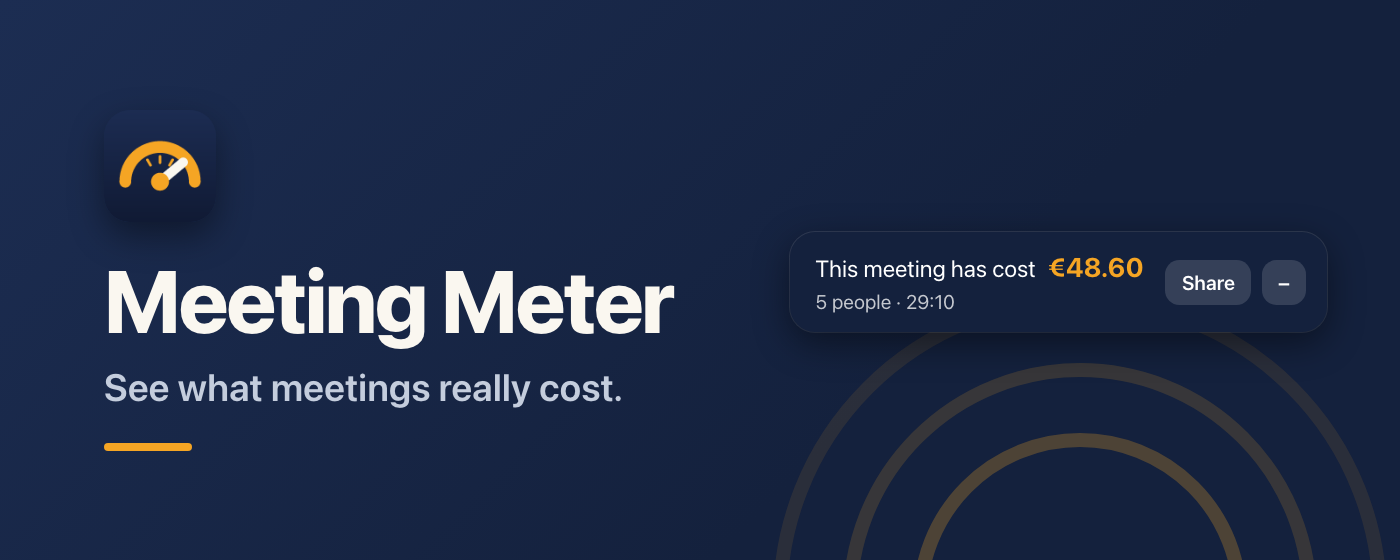
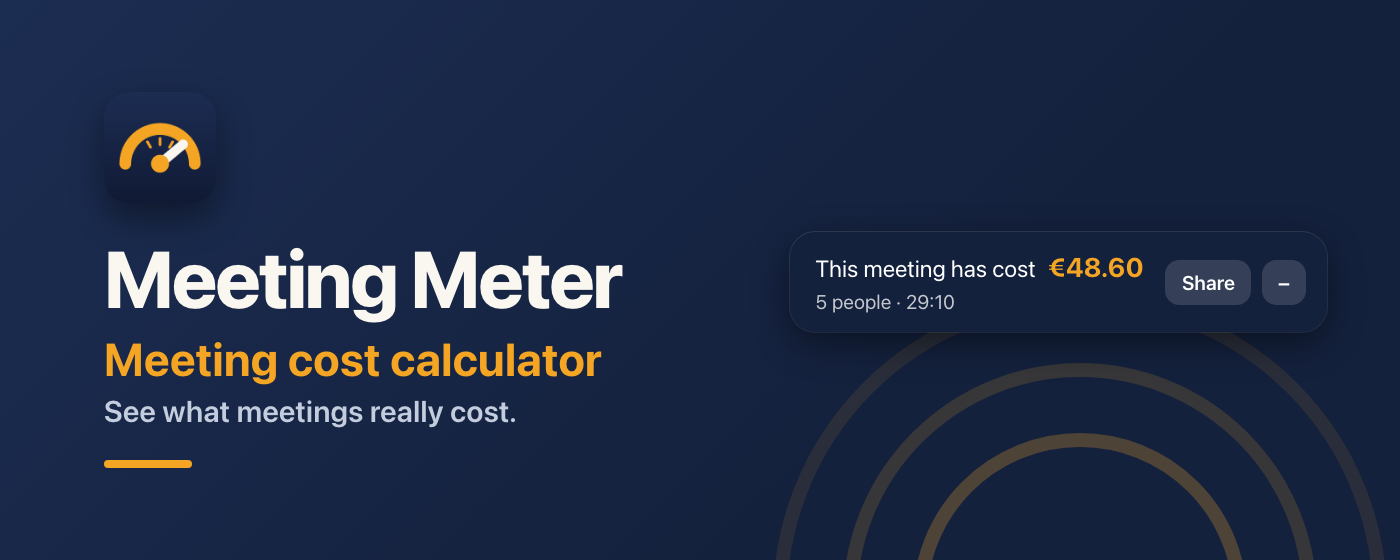
1.0.2: store name with search term, 5 store languages, trackable Share link, updated listing and promo tiles

Changed region(s): [[0.0614, 0.4554, 0.4914, 0.7589], [0.0614, 0.2125, 0.1536, 0.3339], [0.0614, 0.7893, 0.1536, 0.85]]

diff --git a/tests/run.js b/tests/run.js
@@ -105,10 +105,11 @@ eq("money en usd", C.formatMoney(5, "USD", false, "en-US"), "$5.00");
 eq("money gbp", C.formatMoney(1234.5, "GBP", false, "en"), "£1,234.50");
 eq("money bad currency fallback", C.formatMoney(5, "??", false, "en"), "5.00 ??");
 eq("money bad currency whole fallback", C.formatMoney(5.4, "??", true, "en"), "5 ??");
-eq("share basic", C.shareText(187, "EUR", 42 * 60, "en"), "This meeting cost €187 and 42 minutes 🙃 #MeetingMeter " + C.STORE_URL);
-eq("share rounds cost", C.shareText(187.6, "EUR", 3600, "en"), "This meeting cost €188 and 1 hour 🙃 #MeetingMeter " + C.STORE_URL);
+eq("share basic", C.shareText(187, "EUR", 42 * 60, "en"), "This meeting cost €187 and 42 minutes 🙃 #MeetingMeter " + C.STORE_URL + "?utm_source=share");
+eq("share rounds cost", C.shareText(187.6, "EUR", 3600, "en"), "This meeting cost €188 and 1 hour 🙃 #MeetingMeter " + C.STORE_URL + "?utm_source=share");
+eq("share url exact", C.SHARE_URL, C.STORE_URL + "?utm_source=share");
 eq("store url exact", C.STORE_URL, "https://chromewebstore.google.com/detail/meeting-meter/ffkniocclnaojfdcoofnjkfnihnpgnlb");
-eq("share short", C.shareText(3, "USD", 30, "en"), "This meeting cost $3 and less than a minute 🙃 #MeetingMeter " + C.STORE_URL);
+eq("share short", C.shareText(3, "USD", 30, "en"), "This meeting cost $3 and less than a minute 🙃 #MeetingMeter " + C.STORE_URL + "?utm_source=share");
 
 // ---- parseTimeRange
 const R = (t) => C.parseTimeRange(t);

diff --git a/lib/meter.js b/lib/meter.js
@@ -66,10 +66,11 @@
   }
 
   const STORE_URL = "https://chromewebstore.google.com/detail/meeting-meter/ffkniocclnaojfdcoofnjkfnihnpgnlb";
+  const SHARE_URL = STORE_URL + "?utm_source=share";
 
   function shareText(cost, currency, seconds, locale) {
     return "This meeting cost " + formatMoney(Math.round(cost), currency, true, locale) + " and " +
-      formatDuration(seconds) + " 🙃 #MeetingMeter " + STORE_URL;
+      formatDuration(seconds) + " 🙃 #MeetingMeter " + SHARE_URL;
   }
 
   // ---- calendar time ranges ----
@@ -116,7 +117,7 @@
   const calendarCost = (attendees, durationMinutes, rate) => attendees * (durationMinutes / 60) * rate;
 
   root.MeterCalc = {
-    hourlyRate, costFor, qualifies, weekStart, weekStats, formatMoney, formatDuration, shareText, STORE_URL,
+    hourlyRate, costFor, qualifies, weekStart, weekStats, formatMoney, formatDuration, shareText, STORE_URL, SHARE_URL,
     parseTimeRange, calendarCost,
   };
 })(globalThis);

diff --git a/tools/check_release.py b/tools/check_release.py
@@ -83,6 +83,37 @@ if manifest:
 if validate is not None and EXPECTED_THANKS not in validate:
     errors.append("lib/validate.js: does not contain thanks URL %r" % EXPECTED_THANKS)
 
+# Localized store name / summary (Chrome Web Store reads them from manifest.json via _locales).
+LOCALES = ("en", "ro", "de", "fr", "es")
+NAME_MAX, DESC_MAX = 75, 132
+if manifest:
+    if manifest.get("default_locale") != "en":
+        errors.append("manifest.json: default_locale must be 'en'")
+    for key in ("name", "description"):
+        if manifest.get(key) != "__MSG_ext%s__" % key.capitalize():
+            errors.append("manifest.json: %s must be __MSG_ext%s__" % (key, key.capitalize()))
+    if manifest.get("short_name") != "Meeting Meter":
+        errors.append("manifest.json: short_name must be 'Meeting Meter'")
+    if manifest.get("action", {}).get("default_title") != "Meeting Meter":
+        errors.append("manifest.json: action.default_title must be 'Meeting Meter'")
+    for loc in LOCALES:
+        txt = read("_locales/%s/messages.json" % loc)
+        if txt is None:
+            continue
+        try:
+            msgs = json.loads(txt)
+        except ValueError as e:
+            errors.append("_locales/%s/messages.json: invalid JSON (%s)" % (loc, e))
+            continue
+        if sorted(msgs) != ["extDescription", "extName"]:
+            errors.append("_locales/%s/messages.json: must define exactly extName and extDescription (got %s)" % (loc, sorted(msgs)))
+        for key, limit in (("extName", NAME_MAX), ("extDescription", DESC_MAX)):
+            val = msgs.get(key, {}).get("message", "")
+            if not val:
+                errors.append("_locales/%s: %s is empty" % (loc, key))
+            elif len(val) > limit:
+                errors.append("_locales/%s: %s is %d chars (max %d)" % (loc, key, len(val), limit))
+
 if errors:
     print("check_release: FAILED")
     for e in errors:

diff --git a/tools/package.py b/tools/package.py
@@ -28,6 +28,12 @@ def collect():
         for name in os.listdir(d):
             if name.endswith(".png") and os.path.isfile(os.path.join(d, name)):
                 files.append("icons/" + name)
+    loc = os.path.join(ROOT, "_locales")
+    if os.path.isdir(loc):
+        for lang in os.listdir(loc):
+            mf = os.path.join(loc, lang, "messages.json")
+            if os.path.isfile(mf):
+                files.append("_locales/%s/messages.json" % lang)
     return sorted(set(files), key=lambda p: (p != "manifest.json", p))
 
 
@@ -72,6 +78,16 @@ def main():
             fail("release check failed; not packaging (use --skip-release-check for test builds)")
 
     files = collect()
+    dl = manifest.get("default_locale")
+    if dl and "_locales/%s/messages.json" % dl not in files:
+        fail("default_locale %r has no _locales/%s/messages.json" % (dl, dl))
+    used = set(re.findall(r"__MSG_(\w+)__", json.dumps(manifest)))
+    for f in files:
+        if f.startswith("_locales/"):
+            with open(os.path.join(ROOT, f), encoding="utf-8") as fh:
+                defined = json.load(fh)
+            for k in sorted(used - set(defined)):
+                fail("%s does not define message %s used in manifest.json" % (f, k))
     inzip = set(files)
     missing = []
     for f in TOP_FILES + RUNTIME_LIB:

diff --git a/store/listing.md b/store/listing.md
@@ -1,31 +1,31 @@
-# Chrome Web Store listing: Meeting Meter (v1.0.0)
+# Chrome Web Store listing: Meeting Meter (v1.0.2)
 
 Everything below is checked against manifest.json, config.js, background.js, meet.js, calendar.js, selectors.js, popup.js, options.js, README.md and PRIVACY.md. Character counts are stated next to each limited field. Copy only what is inside the code blocks.
 
 ---
 
-## 1. Name (limit 75)
+## 1. Name and short description (shipped inside the package)
 
-```
-Meeting Meter – See what meetings cost
-```
-Characters: 38
+From 1.0.2 the store takes the item name (limit 75) and short summary (limit 132) from the package's `_locales/<locale>/messages.json` (`extName`, `extDescription`, referenced from manifest.json as `__MSG_extName__` and `__MSG_extDescription__`). Do NOT paste them in the dashboard. They appear in the store after the 1.0.2 review. Exact strings and character counts:
 
-## 2. Short description / summary (limit 132)
+| Locale | Name | Chars | Summary | Chars |
+|---|---|---|---|---|
+| en | Meeting Meter – Meeting Cost Calculator for Google Meet | 55 | Meeting cost calculator for Google Meet and Google Calendar. See the live cost of every meeting, based on salary and attendees. | 127 |
+| ro | Meeting Meter – Calculator de cost al ședințelor pentru Google Meet | 67 | Calculator de cost pentru ședințe în Google Meet și Google Calendar. Vezi în timp real cât costă fiecare ședință. | 113 |
+| de | Meeting Meter – Meeting-Kostenrechner für Google Meet | 53 | Meeting-Kostenrechner für Google Meet und Google Kalender. Sieh live, was jedes Meeting kostet – nach Gehalt und Teilnehmerzahl. | 128 |
+| fr | Meeting Meter – Calculateur du coût des réunions pour Google Meet | 65 | Calculateur du coût des réunions pour Google Meet et Google Agenda. Voyez en direct le coût de chaque réunion, selon le salaire. | 128 |
+| es | Meeting Meter – Calculadora del coste de reuniones para Google Meet | 67 | Calculadora del coste de reuniones para Google Meet y Google Calendar. Mira en directo cuánto cuesta cada reunión, según el salario. | 132 |
 
-No brand names here.
+## 2. Rules for the public descriptions
 
-```
-A live cost ticker for your video calls and a cost estimate on calendar events. See what your meetings really cost.
-```
-Characters: 115
+Do not list or repeat brand names in the public description or summary. The Chrome Web Store flagged that as keyword spam for Wait 24h (violation 'Yellow Argon'). In the description body, Google Meet and Google Calendar (localized: Google Kalender in de, Google Agenda in fr) each appear once, in the single "works in" sentence under WHERE IT WORKS, plus the non-affiliation sentence that mentions Google. The package name and summary (section 1) name the Google products because they are functionally required. Everything else says "your video call" or "your calendar".
 
 ## 3. Detailed description (EN)
 
-Do not list or repeat brand names in the public description or short description. The Chrome Web Store flagged that as keyword spam for Wait 24h (violation 'Yellow Argon'). Google Meet and Google Calendar appear once each, in one plain sentence under WHERE IT WORKS, because that is functionally required. Everything else says "your video call" or "your calendar".
+Opening paragraph replaced for 1.0.2. The Share text already mentions the extension link (it ends with the store link).
 
 ```
-Meeting Meter shows what your meetings cost, in plain numbers, while they happen.
+Meeting Meter is a meeting cost calculator that runs live in your call. See what every meeting costs, while it happens, based on salary and the number of people in it.
 
 LIVE TICKER IN YOUR VIDEO CALL
 A small ticker shows "This meeting has cost €123.45" and updates every second. It follows people joining and leaving, so the number stays honest. Drag it anywhere, minimize it, or press Share to copy a one-line summary (with a link to the extension).
@@ -53,30 +53,19 @@ PRIVACY
 OPTIONAL SUPPORT
 Meeting Meter is free and built by one developer. If it helps, you can support it with a one-time payment (€3, €5, €10, or pick your own amount) through Stripe, which opens in a new tab. The ask appears in the popup only after your 10th, 50th and 200th tracked meeting, at most once per milestone and 30 days apart. Choose "Don't ask again" and it stops for good. The same links are always available in Options. Payments happen on Stripe's page; the extension never sees them.
 ```
-Characters: 2044 (target 1,200–1,800)
+Characters: 2161
 
 ---
 
-## 4. Romanian translation (ro)
+## 4. Translations (paste per language in the dashboard)
 
-### Name
-```
-Meeting Meter – Vezi cât costă ședințele
-```
-Characters: 40
+### Detailed description (ro, Romanian)
 
-### Short description
 ```
-Un contor live al costului pentru apelurile video și o estimare pentru evenimentele din calendar. Vezi cât costă ședințele tale.
-```
-Characters: 128
-
-### Detailed description
-```
-Meeting Meter îți arată, în cifre simple, cât costă ședințele tale chiar în timp ce au loc.
+Meeting Meter este un calculator de cost al ședințelor care rulează live în apelul tău. Vezi cât costă fiecare ședință, chiar în timp ce are loc, în funcție de salariu și de numărul de participanți.
 
 CONTOR LIVE ÎN APELUL VIDEO
-Un mic contor afișează „This meeting has cost €123.45” și se actualizează în fiecare secundă. Ține cont de cei care intră și ies, așa că suma rămâne corectă. Îl poți trage oriunde, îl poți minimiza sau poți apăsa Share ca să copiezi un rezumat de o linie.
+Un mic contor afișează „This meeting has cost €123.45” și se actualizează în fiecare secundă. Ține cont de cei care intră și ies, așa că suma rămâne corectă. Îl poți trage oriunde, îl poți minimiza sau poți apăsa Share ca să copiezi un rezumat de o linie (cu un link către extensie).
 
 ESTIMARE ÎN CALENDAR
 Deschide un eveniment și vezi o linie de tipul „Estimated cost: €240 · 6 people × 2 h”: invitați × durată × tariful pe oră.
@@ -104,14 +93,119 @@ Meeting Meter este gratuită și făcută de un singur dezvoltator. Dacă ți-a 
 
 Interfața extensiei este în limba engleză.
 ```
-Characters: 2355
+Characters: 2490
+
+### Detailed description (de, German)
+
+```
+Meeting Meter ist ein Meeting-Kostenrechner, der live in deinem Call läuft. Sieh, was jedes Meeting kostet, während es stattfindet – nach Gehalt und Teilnehmerzahl.
+
+LIVE-ZÄHLER IN DEINEM VIDEOANRUF
+Ein kleiner Zähler zeigt „This meeting has cost €123.45“ und aktualisiert sich jede Sekunde. Er berücksichtigt, wer beitritt und wer geht, damit die Zahl ehrlich bleibt. Ziehe ihn, wohin du willst, minimiere ihn oder drücke „Share“, um eine einzeilige Zusammenfassung zu kopieren (mit einem Link zur Erweiterung).
+
+SCHÄTZUNG IN DEINEM KALENDER
+Öffne einen Termin und du siehst eine Zeile wie „Estimated cost: €240 · 6 people × 2 h“: Gäste × Dauer × Stundensatz.
+
+DIESE WOCHE AUF EINEN BLICK
+Das Popup addiert deine Woche: Gesamtkosten, Anzahl der Meetings, Stunden und dein teuerstes Meeting.
+
+SO FUNKTIONIERT ES
+• Lege in den Optionen dein Jahresgehalt und deine Währung fest. Der Stundensatz ist das Gehalt ÷ 2000 Stunden. Das ist ein einfacher Durchschnitt pro Person, keine echte Gehaltsabrechnung.
+• Ein Meeting zählt in deinem Verlauf erst nach mindestens 60 Sekunden mit mindestens 2 Personen.
+• Der Zähler bleibt ausgeblendet, wenn weniger als N Personen anwesend sind (du wählst N). Du kannst den Zähler oder die Kalenderschätzung auch ausschalten.
+
+WO ES FUNKTIONIERT
+Funktioniert in Google Meet und Google Kalender. Meeting Meter ist ein unabhängiges Projekt und nicht mit Google verbunden.
+
+DATENSCHUTZ
+• Alles bleibt auf deinem Gerät, im lokalen Erweiterungsspeicher deines Browsers.
+• Keine Werbung, kein Tracking, keine Analysen, keine Konten und keine Netzwerkanfragen der Erweiterung.
+• Sie liest oder speichert nie, was in einem Call gesagt oder geschrieben wird, weder Chatnachrichten noch Terminbeschreibungen, und sie zeichnet weder Audio noch Video auf.
+• Meeting-Titel werden nur gespeichert, wenn du das einschaltest (standardmäßig aus). Lösche deinen Verlauf jederzeit in den Optionen.
+
+FREIWILLIGE UNTERSTÜTZUNG
+Meeting Meter ist kostenlos und von einem einzelnen Entwickler gebaut. Wenn es dir hilft, kannst du es mit einer einmaligen Zahlung unterstützen (3 €, 5 €, 10 € oder einem Betrag deiner Wahl) über Stripe, das sich in einem neuen Tab öffnet. Die Bitte erscheint im Popup nur nach deinem 10., 50. und 200. erfassten Meeting, höchstens einmal pro Schwelle und mit 30 Tagen Abstand. Wähle „Don't ask again“, und sie hört für immer auf. Dieselben Links findest du immer in den Optionen. Die Zahlung läuft auf der Seite von Stripe; die Erweiterung sieht sie nie.
+
+Die Oberfläche der Erweiterung ist auf Englisch.
+```
+Characters: 2543
+
+### Detailed description (fr, French)
+
+```
+Meeting Meter est un calculateur du coût des réunions qui fonctionne en direct pendant votre appel. Voyez ce que coûte chaque réunion, pendant qu'elle a lieu, selon le salaire et le nombre de participants.
+
+COMPTEUR EN DIRECT DANS VOTRE APPEL VIDÉO
+Un petit compteur affiche « This meeting has cost €123.45 » et se met à jour chaque seconde. Il suit les personnes qui arrivent et qui partent, pour que le chiffre reste honnête. Déplacez-le où vous voulez, réduisez-le, ou appuyez sur « Share » pour copier un résumé d'une ligne (avec un lien vers l'extension).
+
+ESTIMATION DANS VOTRE AGENDA
+Ouvrez un événement et vous voyez une ligne comme « Estimated cost: €240 · 6 people × 2 h » : invités × durée × taux horaire.
+
+LA SEMAINE EN UN COUP D'ŒIL
+La fenêtre de l'extension additionne votre semaine : coût total, nombre de réunions, heures et votre réunion la plus chère.
+
+COMMENT ÇA MARCHE
+• Indiquez votre salaire annuel et votre devise dans les Options. Le taux horaire est le salaire ÷ 2000 heures. C'est une moyenne simple par personne, pas un chiffre de paie réel.
+• Une réunion n'entre dans votre historique qu'après au moins 60 secondes avec au moins 2 personnes.
+• Le compteur reste masqué quand il y a moins de N personnes (vous choisissez N). Vous pouvez aussi désactiver le compteur ou l'estimation de l'agenda.
+
+OÙ ÇA FONCTIONNE
+Fonctionne dans Google Meet et Google Agenda. Meeting Meter est un projet indépendant, sans affiliation avec Google.
+
+CONFIDENTIALITÉ
+• Tout reste sur votre appareil, dans le stockage local de l'extension de votre navigateur.
+• Aucune publicité, aucun suivi, aucune analyse, aucun compte et aucune requête réseau de l'extension.
+• Elle ne lit ni ne stocke jamais ce qui est dit ou écrit pendant un appel, ni les messages du chat, ni les descriptions d'événements, et n'enregistre ni audio ni vidéo.
+• Les titres de réunion ne sont enregistrés que si vous l'activez (désactivé par défaut). Effacez votre historique à tout moment dans les Options.
+
+SOUTIEN FACULTATIF
+Meeting Meter est gratuit et conçu par un seul développeur. S'il vous est utile, vous pouvez le soutenir par un paiement unique (3 €, 5 €, 10 € ou un montant de votre choix) via Stripe, qui s'ouvre dans un nouvel onglet. La demande n'apparaît dans la fenêtre de l'extension qu'après votre 10e, 50e et 200e réunion suivie, au plus une fois par palier et à 30 jours d'intervalle. Choisissez « Don't ask again » et elle s'arrête définitivement. Les mêmes liens sont toujours dans les Options. Le paiement se fait sur la page de Stripe ; l'extension ne le voit jamais.
+
+L'interface de l'extension est en anglais.
+```
+Characters: 2614
+
+### Detailed description (es, Spanish)
+
+```
+Meeting Meter es una calculadora del coste de reuniones que funciona en directo durante tu llamada. Mira cuánto cuesta cada reunión mientras sucede, según el salario y el número de personas que participan.
+
+CONTADOR EN DIRECTO EN TU VIDEOLLAMADA
+Un pequeño contador muestra «This meeting has cost €123.45» y se actualiza cada segundo. Tiene en cuenta a quienes entran y salen, así que la cifra se mantiene honesta. Arrástralo donde quieras, minimízalo o pulsa «Share» para copiar un resumen de una línea (con un enlace a la extensión).
+
+ESTIMACIÓN EN TU CALENDARIO
+Abre un evento y verás una línea como «Estimated cost: €240 · 6 people × 2 h»: invitados × duración × tarifa por hora.
+
+LA SEMANA DE UN VISTAZO
+La ventana de la extensión suma tu semana: coste total, número de reuniones, horas y tu reunión más cara.
+
+CÓMO FUNCIONA
+• Indica tu salario anual y tu moneda en Opciones. La tarifa por hora es el salario ÷ 2000 horas. Es un promedio simple por persona, no una cifra real de nómina.
+• Una reunión cuenta en tu historial solo después de al menos 60 segundos con al menos 2 personas.
+• El contador permanece oculto cuando hay menos de N personas (tú eliges N). También puedes desactivar el contador o la estimación del calendario.
+
+DÓNDE FUNCIONA
+Funciona en Google Meet y Google Calendar. Meeting Meter es un proyecto independiente y no está afiliado a Google.
+
+PRIVACIDAD
+• Todo se queda en tu dispositivo, en el almacenamiento local de extensiones de tu navegador.
+• Sin anuncios, sin seguimiento, sin analítica, sin cuentas y sin solicitudes de red por parte de la extensión.
+• Nunca lee ni guarda lo que se dice o se escribe en una llamada, ni los mensajes del chat ni las descripciones de los eventos, y no graba audio ni vídeo.
+• Los títulos de las reuniones solo se guardan si lo activas (desactivado por defecto). Borra tu historial cuando quieras en Opciones.
+
+APOYO OPCIONAL
+Meeting Meter es gratuita y la ha creado un solo desarrollador. Si te resulta útil, puedes apoyarla con un pago único (3 €, 5 €, 10 € o el importe que elijas) a través de Stripe, que se abre en una pestaña nueva. La petición aparece en la ventana de la extensión solo después de tu reunión registrada número 10, 50 y 200, como máximo una vez por hito y con 30 días de separación. Elige «Don't ask again» y se detiene para siempre. Los mismos enlaces están siempre en Opciones. El pago se hace en la página de Stripe; la extensión nunca lo ve.
+
+La interfaz de la extensión está en inglés.
+```
+Characters: 2480
 
 ---
 
 ## 5. Category and language
 
 - Category: Productivity › Workflow & Planning ("Workflow & Planning" under Productivity; if the 2026 dashboard shows a different taxonomy, plain Productivity is the fallback). Justification: it is a tool for people who run and attend meetings.
-- Language: English (default); Romanian (ro) as an added localized listing.
+- Languages: English (default); Romanian (ro), German (de), French (fr) and Spanish (es) as added localized listings (new in 1.0.2).
 
 ## 6. Single purpose statement (Privacy practices tab)
 
@@ -218,8 +312,16 @@ Permissions: storage; host access to meet.google.com and calendar.google.com. No
 - [ ] Register a Chrome Web Store developer account (one-time US$5 fee) and verify the contact email.
 - [ ] Confirm GitHub Pages is live: https://overcrasher.github.io/meeting-meter/ , privacy.html and thanks.html all open.
 - [ ] Upload 5 screenshots (1280x800) in the order above, plus the small promo tile (440x280) and the marquee tile (1400x560).
-- [ ] Paste name, short description, detailed description (EN and RO), category, single purpose, permission justifications, data disclosures and reviewer notes.
+- [ ] Paste the detailed description in each language (EN, RO, DE, FR, ES; name and short summary come from the package), category, single purpose, permission justifications, data disclosures and reviewer notes.
 - [ ] Tick the three certification statements and set remote code to No.
 - [ ] Set visibility (Public) and distribution regions, then submit for review.
 
 Published store URL: https://chromewebstore.google.com/detail/meeting-meter/ffkniocclnaojfdcoofnjkfnihnpgnlb
+
+## 13. 1.0.2 submission steps
+
+- [ ] Upload `dist/meeting-meter-1.0.2.zip` (Package tab, upload new package).
+- [ ] In Store listing, choose each language from the language dropdown (English, Romanian, German, French, Spanish) and paste its detailed description from sections 3 and 4. Name and summary are not pasted: they come from `_locales` in the package.
+- [ ] Add the YouTube promo video URL if available.
+- [ ] In Account, set the publisher name to Quantumbyte Labs.
+- [ ] Submit for review.

diff --git a/README.md b/README.md
@@ -120,7 +120,7 @@ Meeting Meter is a convenience tool, not a security control.
 ## Sharing and links
 
 The Share button copies a line like `This meeting cost €187 and 42 minutes 🙃 #MeetingMeter <store link>`; the Chrome Web Store
-link (`MeterCalc.STORE_URL` in `lib/meter.js`) is appended automatically.
+link with `?utm_source=share` (`MeterCalc.SHARE_URL` in `lib/meter.js`; `STORE_URL` stays clean) is appended automatically.
 
 More from the same developer: [Wait 24h](%s), a pause before impulse buys.
 
@@ -136,6 +136,13 @@ More from the same developer: [Wait 24h](%s), a pause before impulse buys.
 5. Upload the zip in the Chrome Web Store dashboard; use the GitHub Pages homepage as the website and `privacy.html` as the privacy policy.
 
 See `PRIVACY.md`: no data leaves the device.
+
+## Changes in 1.0.2
+
+- Store name with a search term and a rewritten short summary, taken from `manifest.json` via `_locales` (`__MSG_extName__`, `__MSG_extDescription__`).
+- Five store languages: English, Romanian, German, French, Spanish (`_locales/*/messages.json`; only the store listing name and summary are localized, the in-product UI stays English).
+- The toolbar tooltip and in-product headers keep the short name "Meeting Meter" (`short_name`, `action.default_title`).
+- The Share text now ends with a trackable link: `<store link>?utm_source=share`.
 
 ## Changes in 1.0.1
 
